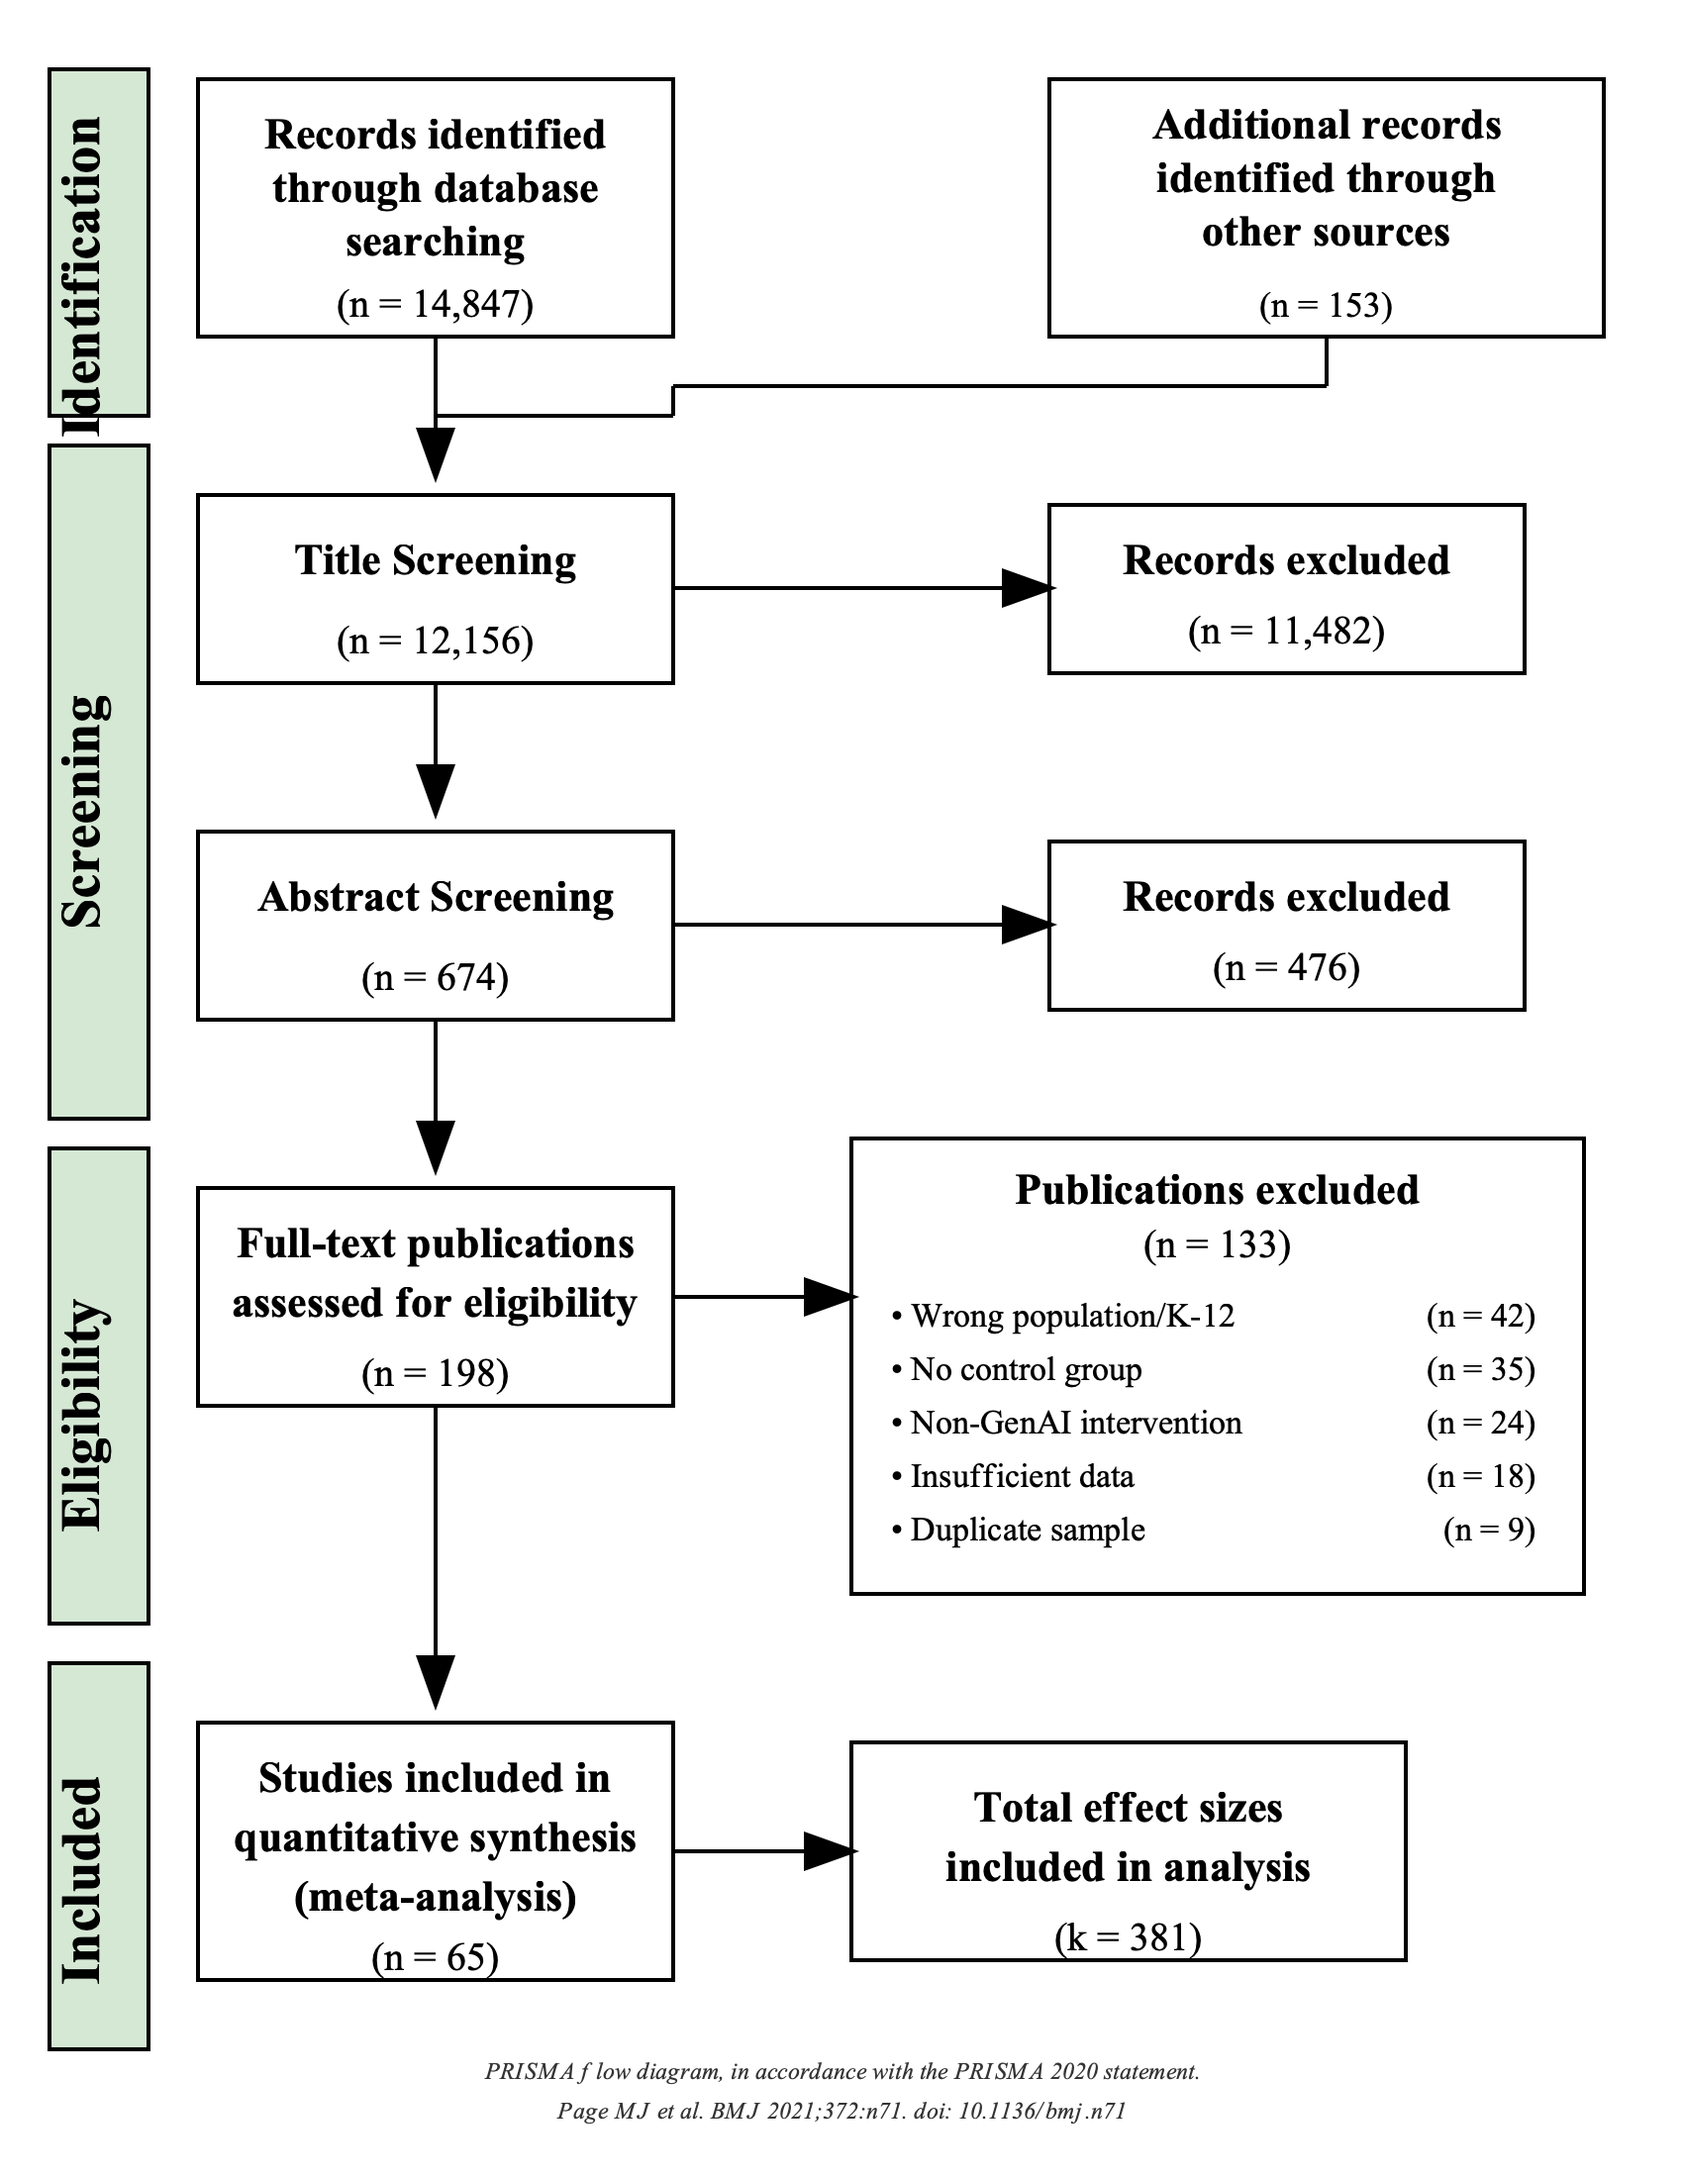
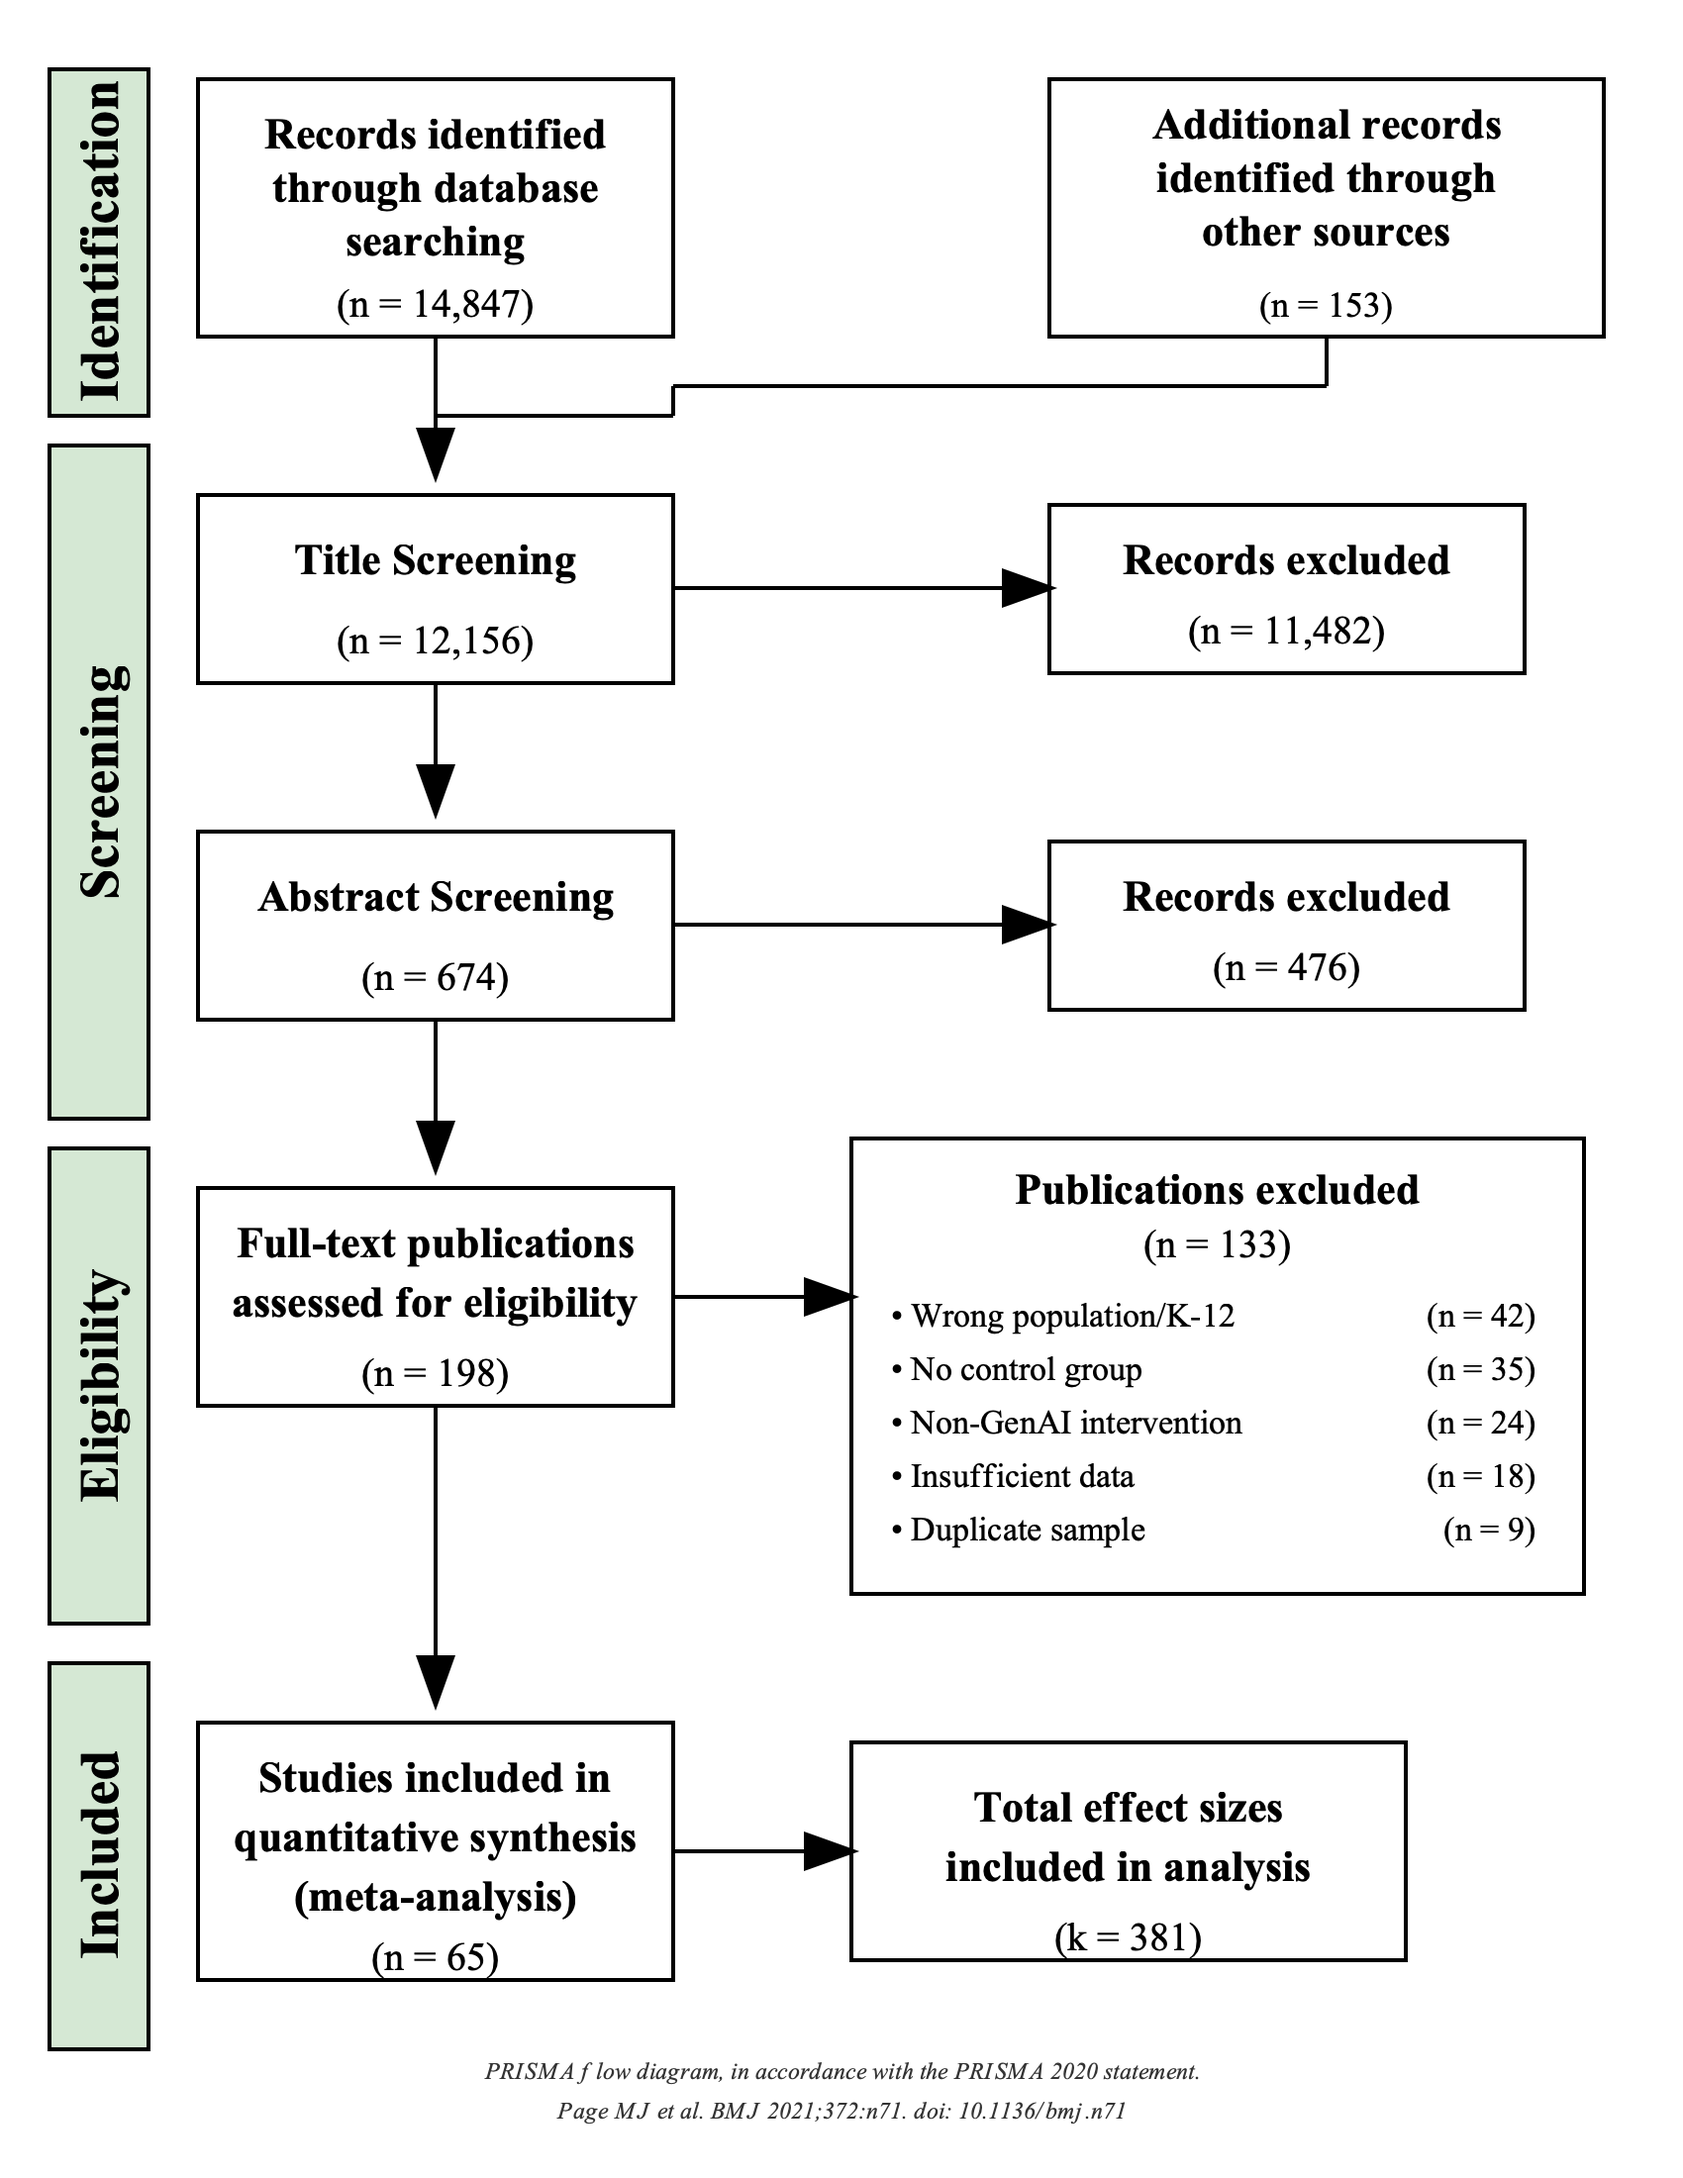
Center phase labels in green boxes using dominant-baseline
- Added dominant-baseline="middle" for vertical centering
- Calculated exact center coordinates for each phase box:
  - Identification: (50, 122)
  - Screening: (50, 395)
  - Eligibility: (50, 700)
  - Included: (50, 937)

diff --git a/scripts/generate_prisma_academic.py b/scripts/generate_prisma_academic.py
@@ -95,9 +95,9 @@ def generate_academic_prisma_svg():
 
   <!-- ==================== IDENTIFICATION ==================== -->
 
-  <!-- Phase Label -->
+  <!-- Phase Label: box center = (50, 122.5) -->
   <rect x="25" y="35" width="50" height="175" fill="{phase_bg}" stroke="{box_border}" stroke-width="2"/>
-  <text x="50" y="140" text-anchor="middle" class="phase-label" transform="rotate(-90, 50, 140)">Identification</text>
+  <text x="50" y="122" text-anchor="middle" dominant-baseline="middle" class="phase-label" transform="rotate(-90, 50, 122)">Identification</text>
 
   <!-- Database Records Box -->
   <rect x="100" y="40" width="240" height="130" fill="{box_fill}" stroke="{box_border}" stroke-width="2"/>
@@ -122,9 +122,9 @@ def generate_academic_prisma_svg():
 
   <!-- ==================== SCREENING ==================== -->
 
-  <!-- Phase Label -->
+  <!-- Phase Label: box center = (50, 395) -->
   <rect x="25" y="225" width="50" height="340" fill="{phase_bg}" stroke="{box_border}" stroke-width="2"/>
-  <text x="50" y="410" text-anchor="middle" class="phase-label" transform="rotate(-90, 50, 410)">Screening</text>
+  <text x="50" y="395" text-anchor="middle" dominant-baseline="middle" class="phase-label" transform="rotate(-90, 50, 395)">Screening</text>
 
   <!-- Title Screening Box -->
   <rect x="100" y="250" width="240" height="95" fill="{box_fill}" stroke="{box_border}" stroke-width="2"/>
@@ -160,9 +160,9 @@ def generate_academic_prisma_svg():
 
   <!-- ==================== ELIGIBILITY ==================== -->
 
-  <!-- Phase Label -->
+  <!-- Phase Label: box center = (50, 700) -->
   <rect x="25" y="580" width="50" height="240" fill="{phase_bg}" stroke="{box_border}" stroke-width="2"/>
-  <text x="50" y="715" text-anchor="middle" class="phase-label" transform="rotate(-90, 50, 715)">Eligibility</text>
+  <text x="50" y="700" text-anchor="middle" dominant-baseline="middle" class="phase-label" transform="rotate(-90, 50, 700)">Eligibility</text>
 
   <!-- Full-text Assessment Box -->
   <rect x="100" y="600" width="240" height="110" fill="{box_fill}" stroke="{box_border}" stroke-width="2"/>
@@ -193,9 +193,9 @@ def generate_academic_prisma_svg():
 
   <!-- ==================== INCLUDED ==================== -->
 
-  <!-- Phase Label -->
+  <!-- Phase Label: box center = (50, 937.5) -->
   <rect x="25" y="840" width="50" height="195" fill="{phase_bg}" stroke="{box_border}" stroke-width="2"/>
-  <text x="50" y="950" text-anchor="middle" class="phase-label" transform="rotate(-90, 50, 950)">Included</text>
+  <text x="50" y="937" text-anchor="middle" dominant-baseline="middle" class="phase-label" transform="rotate(-90, 50, 937)">Included</text>
 
   <!-- Studies Included Box -->
   <rect x="100" y="870" width="240" height="130" fill="{box_fill}" stroke="{box_border}" stroke-width="2"/>
